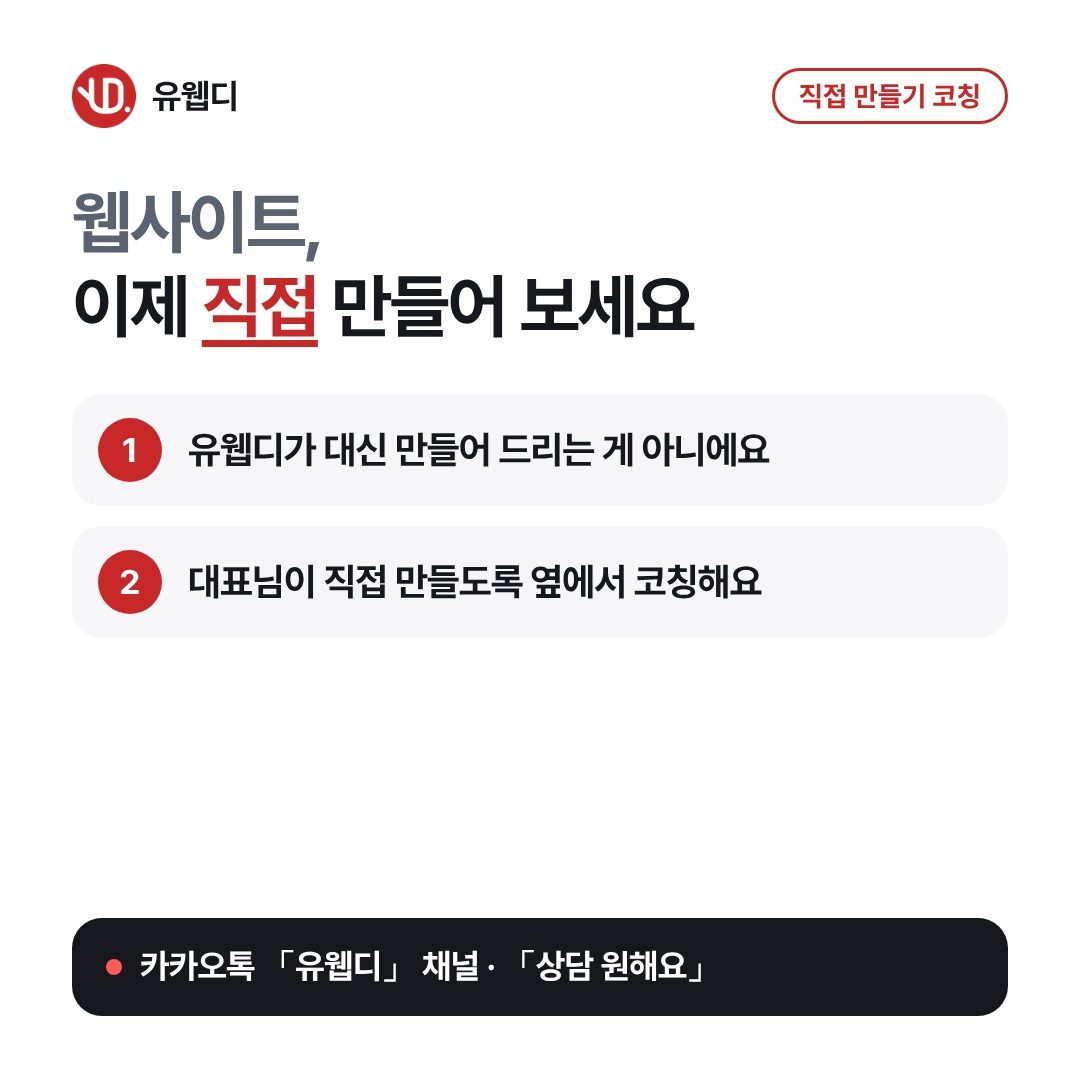
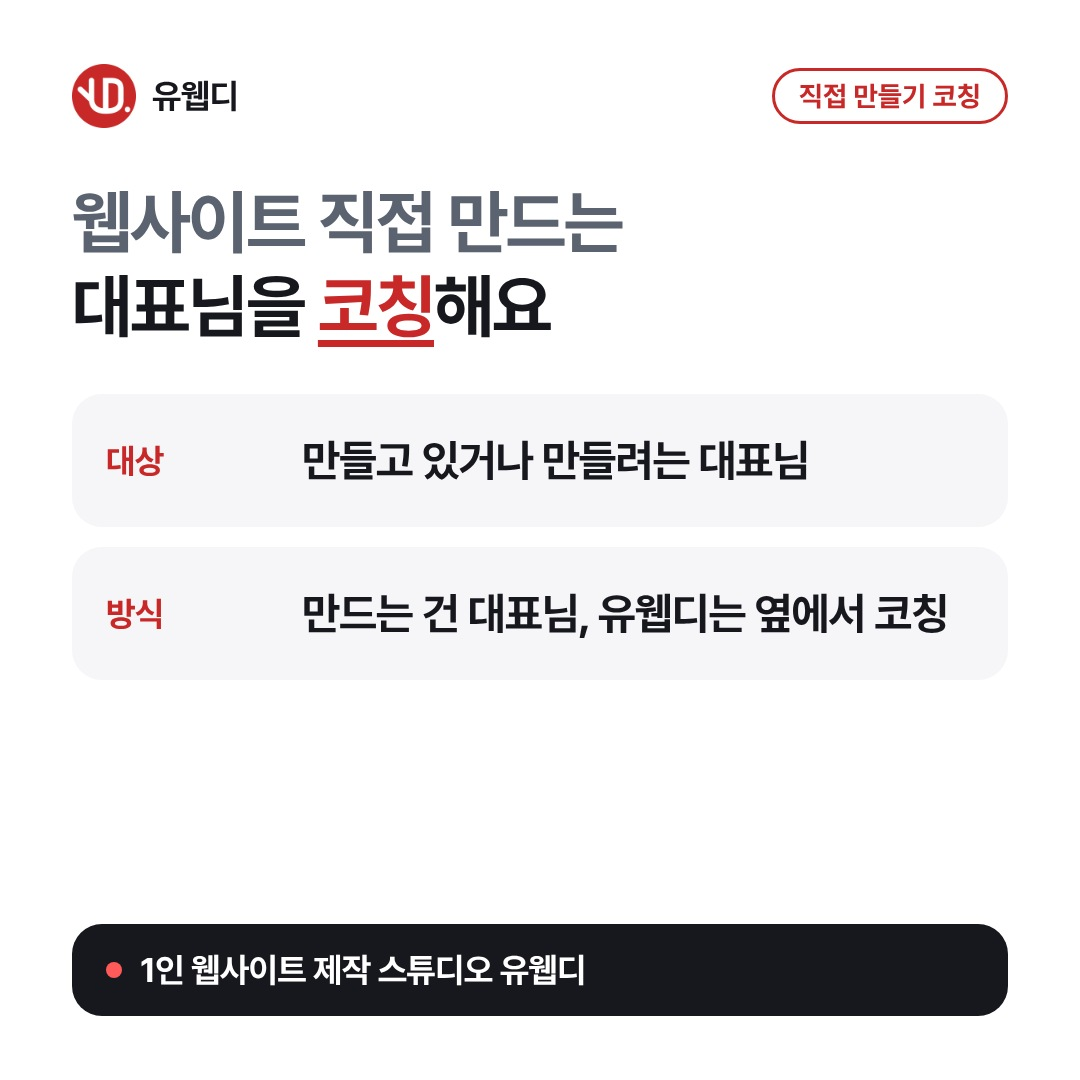
유웹디 당근마켓: 식스샵 프로 직접 만들기 코칭 캠페인(지역 광고·소식·카드·커리큘럼 초안)
- 당근마켓/식스샵프로_직접만들기_코칭/: 소식 2편, 지역 광고 후보 4개, 붙여넣기용 txt
- 이미지 카드 CARD-01~03(1080x1080)과 cards.json·render_cards.js(번호 줄 대신 체크 줄)
- 코칭_커리큘럼.md 초안: 확정·확인 필요·제안 구분, 대표님이 정해 주세요 표(올리기 전/나중에)
- 3안 작성→심사→합성→3중 검증 결과 반영(지역·무료 표기 짝, 사진 배정, 제안 표시 정리)
- README에 캠페인 폴더 구조와 코칭 검사 항목 추가

Claude-Session: https://claude.ai/code/session_01LjZC8sWc8qV5SK7AdNmqRB

diff --git a/유웹디_브랜딩/마케팅/당근마켓/식스샵프로_직접만들기_코칭/이미지_소스/render_cards.js b/유웹디_브랜딩/마케팅/당근마켓/식스샵프로_직접만들기_코칭/이미지_소스/render_cards.js
@@ -1,7 +1,7 @@
 /* cards.json → 당근마켓 이미지 카드(1080x1080 JPG)
  * 사용법: NODE_PATH=/opt/node22/lib/node_modules node render_cards.js
  * 필요: playwright(크롬). 글꼴은 견적서_생성기/fonts 의 Pretendard 부분 글꼴을 씁니다.
- * 카드 문구는 cards.json 에서만 고칩니다. 점 항목이 「라벨: 값」 모양이면 안내 줄, 아니면 번호 줄로 그립니다. */
+ * 카드 문구는 cards.json 에서만 고칩니다. 점 항목이 「라벨: 값」 모양이면 안내 줄, 아니면 체크 줄(순서 없음)로 그립니다. */
 const { chromium } = require('playwright');
 const fs = require('fs'), path = require('path');
 const HERE = __dirname;
@@ -23,7 +23,7 @@ function pointsHTML(c) {
   return c.points.map((p, i) => {
     const m = p.match(/^(.{1,6}?)\s*[:：]\s*(.+)$/);
     if (m) return `<div class="row fact"><b class="lab">${esc(m[1])}</b><span class="val">${esc(m[2])}</span></div>`;
-    return `<div class="row"><i class="no">${i + 1}</i><span class="val">${esc(p)}</span></div>`;
+    return `<div class="row"><i class="ck"><svg viewBox="0 0 24 24" width="34" height="34" fill="none" stroke="#fff" stroke-width="3.4" stroke-linecap="round" stroke-linejoin="round"><path d="M5 12.5l4.5 4.5L19 7.5"/></svg></i><span class="val">${esc(p)}</span></div>`;
   }).join('');
 }
 function html(c) {
@@ -44,16 +44,18 @@ h1 .dim{color:#5b6270}
 h1 em{font-style:normal;color:#c82828;text-decoration:underline;text-decoration-thickness:7px;text-underline-offset:9px}
 .pts{margin-top:46px;display:flex;flex-direction:column;gap:20px}
 .row{background:#f6f5f7;border-radius:30px;padding:24px 32px 24px 26px;display:flex;align-items:center;gap:26px;position:relative}
-.row .no{flex:none;width:64px;height:64px;border-radius:50%;background:#c82828;color:#fff;font-style:normal;font-weight:700;font-size:34px;display:flex;align-items:center;justify-content:center}
+.row .ck{flex:none;width:64px;height:64px;border-radius:50%;background:#c82828;display:flex;align-items:center;justify-content:center}
 .row .val{font-size:38px;font-weight:700;line-height:1.3;letter-spacing:-.025em}
 .row.fact{gap:24px;padding-left:34px}
-.row.fact .lab{flex:none;width:128px;color:#c82828;font-size:32px;font-weight:700;letter-spacing:-.02em}
+.row.fact .lab{flex:none;width:172px;color:#c82828;font-size:32px;font-weight:700;letter-spacing:-.02em}
+.pts.mid .row{padding-top:30px;padding-bottom:30px}.pts.mid .val{font-size:42px}.pts.big .row{padding-top:38px;padding-bottom:38px}.pts.big .val{font-size:44px}.pts.big .lab,.pts.mid .lab{font-size:34px}
+.foot.sm{font-size:30px}
 .foot{position:absolute;left:0;right:0;bottom:0;background:#16181d;color:#fff;border-radius:30px;padding:26px 34px;font-size:34px;font-weight:700;letter-spacing:-.02em;display:flex;align-items:center;gap:18px}
 .foot:before{content:"";flex:none;width:16px;height:16px;border-radius:50%;background:#ff5a5a}
 </style></head><body><div class="wrap">
 <div class="top"><img src="${LOGO}"><span class="nm">유웹디</span>${c.kicker ? `<span class="kick">${esc(c.kicker)}</span>` : ''}</div>
-<div class="main"><h1>${headlineHTML(c)}</h1><div class="pts">${pointsHTML(c)}</div></div>
-${c.footer ? `<div class="foot">${esc(c.footer)}</div>` : ''}
+<div class="main"><h1>${headlineHTML(c)}</h1><div class="pts${c.points.length <= 2 ? ' big' : c.points.length === 3 ? ' mid' : ''}">${pointsHTML(c)}</div></div>
+${c.footer ? `<div class="foot${c.footer.length > 22 ? ' sm' : ''}">${esc(c.footer)}</div>` : ''}
 </div></body></html>`;
 }
 

diff --git a/유웹디_브랜딩/마케팅/당근마켓/식스샵프로_직접만들기_코칭/코칭_커리큘럼.md b/유웹디_브랜딩/마케팅/당근마켓/식스샵프로_직접만들기_코칭/코칭_커리큘럼.md
@@ -1,0 +1,138 @@
+# 직접 만들기 코칭 — 커리큘럼 초안
+
+상태: **초안, 유웹디 대표님 확인 전.** 아직 어디에도 올리거나 안내하지 않았어요.
+서비스 이름 「직접 만들기 코칭」은 이 초안에서 임시로 붙인 이름이에요. 쓰실 이름을 정해 주세요.
+
+## 읽는 법
+
+- 이 문서에서 「대표님」은 두 분을 가리켜요. 소개와 주제 설명의 「대표님」은 코칭을 받는 분이고, 위의 상태 줄과 맨 아래 「대표님이 정해 주세요」의 「대표님」은 유웹디 대표님이에요.
+- **[확정]** 은 유웹디 대표님이 알려 주신 사실이에요. **[확인 필요]** 는 원문을 제가 풀어 읽었거나 공식 자료로 확인하지 못해서 확인이 필요한 내용이에요. **(제안)** 은 이 초안이 제안하는 내용이라 확정이 아니에요. 제안은 고르거나 고치거나 빼 주세요. 「이런 대표님께」와 「함께 해 보는 것」 아래 항목은 모두 제안이에요.
+- 코칭 시간·회차·기간에 대한 숫자는 정하지 않았어요. 요금(3만원, 기존 5만원)과 첫 1시간 무료만 썼고, 주제·순서 번호는 구분용이에요.
+- 이 초안은 코칭 결과나 성과를 미리 약속하는 말을 쓰지 않았고, 공식 자료로 확인하지 못한 식스샵 프로 기능은 단정해서 설명하지 않았어요.
+- 사실 기준: `마케팅/공통/말해도_되는_사실과_규칙.md` 의 「코칭 서비스 사실」.
+
+## 한눈에
+
+| 항목 | 내용 | 구분 |
+|---|---|---|
+| 대상 | 웹사이트를 직접 만들고 있거나 만들려는 대표님 | [확정] |
+| 방식 | 유웹디가 대신 만들어 드리는 서비스가 아니라, 대표님이 직접 만드시는 것을 옆에서 코칭해요 | [확정] |
+| 내용 | 식스샵 프로 AI 활용, MCP 연결, 블록 세팅 설정 (우선 이것부터) | [확정] |
+| 지역 | 유웹디는 경기 광주에서 활동해요. 코칭 지역은 성남·판교 전 지역, 경기 광주는 신현동·능평동만이에요 | [확정] 경기 광주 활동, 신현동·능평동 한정 / [확인 필요] 원문 「성남, 판교 전 지역 신현동, 능평동 한정」을 이렇게 읽었어요. 「성남·판교 전 지역」이 성남 전체인지 판교 일대인지 확인해 주세요 |
+| 장소 | 사무실 또는 카페 | [확정] |
+| 준비물 | 노트북 (필수) | [확정] |
+| 요금 | 시간당 3만원(할인가, 기존 5만원). 첫 1시간은 무료이고 이 시간에 진행 방향을 정해요. 이후에는 시간당 3만원이에요 | [확정] |
+
+## 이렇게 진행해요
+
+첫 1시간 무료(진행 방향 설정) → 이후 시간당 코칭
+
+| 순서 | 하는 일 | 구분 |
+|---|---|---|
+| 문의 | 카카오톡에서 「유웹디」 채널을 추가하고 「상담 원해요」를 보내요 | [확인 필요] 제작 상담에 쓰던 안내예요. 코칭 문의에도 그대로 쓸지, 구분할 말을 붙일지 정해 주세요 |
+| 1. 첫 1시간 (무료) | 이 시간에 코칭 진행 방향을 정해요 | [확정] |
+| | 이야기해 볼 것: 지금 어디까지 해 두셨는지, 어디서 막혔는지, 세 주제 중 무엇부터 할지. 세 주제를 모두 하지 않으셔도 돼요 | (제안) |
+| 2. 이후 코칭 (시간당 3만원) | 정한 주제를 대표님이 노트북으로 직접 하고, 유웹디는 옆에서 도와요 | (제안) |
+| | 요금은 시간당 3만원(기존 5만원)이에요 | [확정] |
+
+첫 1시간만 무료이고, 이후 코칭은 시간당 3만원이에요. 한 번에 얼마나 할지, 몇 번 할지, 모두 얼마나 걸릴지는 정하지 않았어요. 맨 아래 「대표님이 정해 주세요」에서 정해 주세요.
+
+## 주제 1. 식스샵 프로 AI 활용
+
+**이런 대표님께 (제안)**
+
+- 식스샵 프로로 웹사이트를 직접 만들고 있거나 만들려는 대표님
+- 만드는 과정에 AI를 쓰고 싶은데 어디서부터 정해야 할지 막막한 대표님
+- AI에게 무엇을 어떻게 물어야 할지 모르겠는 대표님
+
+**함께 해 보는 것 (제안)**
+
+- 대표님 사이트에서 AI에게 부탁해 보고 싶은 일이 무엇인지 같이 정리해 봐요
+- 정리한 일을 대표님이 직접 AI에 부탁해 보고, 결과를 같이 살펴봐요
+- 마음에 들지 않는 부분은 부탁하는 말을 바꿔 다시 해 봐요
+- AI가 내놓은 답을 그대로 쓰지 않고, 대표님이 확인하는 순서를 같이 정해 봐요
+- 이번에 해 본 순서를 대표님이 직접 메모해 둬요
+
+**준비해 오실 것** (노트북 외에는 제안)
+
+- 노트북 (필수) [확정]
+- 만들고 있거나 만들려는 사이트의 주제나 이름
+- 식스샵 프로에 접속할 수 있는 계정
+- 써 보고 싶은 AI 도구가 있다면 그 이름
+
+[확인 필요] 「식스샵 프로 AI 활용」이 식스샵 프로 안의 기능을 뜻하는지, 별도의 AI 도구를 함께 쓰는 것인지는 공식 자료로 확인하지 못했어요. 그래서 위 항목은 AI를 쓰는 일반적인 방식으로만 적었고, 식스샵 프로 기능의 세부는 쓰지 않았어요.
+
+## 주제 2. MCP 연결
+
+[확인 필요] 일반 용어 풀이: MCP는 AI 도구를 다른 도구·서비스와 이어 주는 연결 방식을 가리키는 말이에요. 식스샵 프로와 어떻게 이어지는지는 공식 자료로 확인하지 못해 쓰지 않았어요. 소식·광고·카드에는 풀이 없이 「MCP 연결」이라고만 썼어요.
+
+**이런 대표님께 (제안)**
+
+- 「MCP 연결」이라는 말은 들었는데 내 작업에서 무엇을 연결하는 일인지 막막한 대표님
+- 연결을 해 보려다 중간에 막힌 대표님
+
+**함께 해 보는 것 (제안)**
+
+- 대표님이 어떤 도구나 서비스를 AI와 연결하고 싶은지 먼저 이야기해 봐요
+- 연결에 필요한 것과 순서를 같이 확인하고, 대표님이 직접 따라 해 봐요
+- 막히는 곳이 어디인지 짚어 보고 다시 해 봐요
+- 연결한 뒤 대표님이 직접 써 보며 잘 이어졌는지 살펴봐요
+
+**준비해 오실 것** (노트북 외에는 제안)
+
+- 노트북 (필수) [확정]
+- 연결해 보고 싶은 AI 도구와 서비스의 이름
+- 각 서비스에 로그인할 수 있는 계정. 로그인은 대표님이 직접 해요 (로그인 정보 취급은 맨 아래 표에서 정해 주세요)
+- 막혔을 때 나온 화면이나 메시지가 있으면 캡처해 오세요
+
+## 주제 3. 블록 세팅 설정
+
+[확인 필요] 「블록 세팅 설정」은 유웹디 대표님이 쓰신 말 그대로예요. 식스샵 프로 화면에서 어떤 항목을 가리키는지는 공식 자료로 확인하지 못해서 풀이를 쓰지 않았어요.
+
+**이런 대표님께 (제안)**
+
+- 식스샵 프로로 사이트를 만들다가 블록 세팅 설정에서 막히는 대표님
+- 어떤 설정부터 건드려야 할지 순서를 정하지 못한 대표님
+- 아직 사이트를 만들기 전이어서 어떤 설정이 필요한지 알고 싶은 대표님
+
+**함께 해 보는 것 (제안)**
+
+- 대표님이 만들고 있는 페이지를 열어 두고, 막히는 설정이 무엇인지 하나씩 짚어 봐요
+- 설정 하나를 대표님이 직접 바꿔 보고, 바뀐 결과를 같이 살펴봐요
+- 바꿀 설정의 순서를 같이 정해 봐요
+- 이번에 해 본 설정 순서를 대표님이 직접 메모해 둬요
+
+**준비해 오실 것** (노트북 외에는 제안)
+
+- 노트북 (필수) [확정]
+- 만들고 있는 사이트가 있다면 접속할 수 있는 상태, 아직 없다면 만들고 싶은 사이트에 대한 메모
+- 막히는 부분을 적은 메모나 화면 캡처
+
+## 하지 않는 일
+
+- 이 코칭에서는 유웹디가 대표님의 웹사이트를 대신 만들어 드리지 않아요. 대표님이 직접 만드시는 것을 옆에서 코칭하는 서비스예요. [확정]
+- 대표님 계정에 대신 로그인해서 작업하지 않아요. 로그인은 대표님이 직접 해요. (제안)
+- 대신 만들어 달라는 문의는 제작 상담으로 나누고, 코칭과 섞어 안내하지 않아요. 구분할 말은 아래 표에서 정해 주세요. (제안)
+
+## 대표님이 정해 주세요
+
+이 부분의 「대표님」은 유웹디 대표님이에요. 아직 정해지지 않았거나 확인하지 못한 항목이라, 정해 주시기 전까지 글과 광고에는 쓰지 않았어요. 「올리기 전」 표시는 광고를 올리기 전에 정해 두면 좋은 항목이에요.
+
+| 항목 | 지금 상태 | 정해 주실 것 | 정할 때 |
+|---|---|---|---|
+| 서비스 이름 | 임시로 「직접 만들기 코칭」이라고 썼어요 | 쓰실 이름 | 올리기 전 |
+| 지역 해석 | 원문 「성남, 판교 전 지역 신현동, 능평동 한정」을 「성남·판교 전 지역, 경기 광주는 신현동·능평동만」으로 읽었어요 | 맞는지. 판교가 성남시에 속한 동네라서 「성남·판교 전 지역」이 성남 전체인지 판교 일대인지도 정해 주세요 | 올리기 전 |
+| 회차·시간 | 정하지 않았어요 | 한 번에 얼마나 할지, 몇 번 할지, 시간당 요금을 어떤 단위로 계산할지 | 올리기 전 |
+| 할인 기간 | 종료일이 없어요. 글에는 기간을 쓰지 않았어요 | 할인을 언제까지 할지, 기간을 두지 않는다면 어떻게 표시할지 | 올리기 전 |
+| 기존 5만원 표시 근거 | 알려 주신 값이에요 | 종전 가격으로 보일 수 있으니 실제로 받던 요금인지 근거, 그리고 할인 조건 표기 | 올리기 전 |
+| 결제 방법 | 정하지 않았어요 | 결제 시점과 방법 (첫 1시간 뒤에 이어서 할 때 포함) | 올리기 전 |
+| 취소·일정 변경 규정 | 정하지 않았어요 | 일정을 바꾸거나 취소할 때의 안내 | 올리기 전 |
+| 첫 1시간 무료 조건 | 정하지 않았어요 | 한 분당 한 번인지, 이어서 코칭하지 않아도 무료인지, 지역 밖 문의는 어떻게 안내할지 | 올리기 전 |
+| 코칭 문의를 구분할 말 | 「상담 원해요」는 제작 상담에도 쓰는 말이에요. 기존 상담 시간 안내는 코칭 시간으로 읽힐 수 있어 넣지 않았어요 | 코칭 문의일 때 덧붙일 말 | 올리기 전 |
+| 카페·사무실 방문 규칙 | 정하지 않았어요. 카페 이름이나 주소는 쓰지 않았어요 | 장소를 누가 정하는지, 사무실은 어느 쪽 사무실인지, 카페 이용 비용은 누가 내는지, 카페에서 계정에 로그인할 때 주의할 점 | 나중에 |
+| 사무실·카페 밖 방식 | 안내하지 않았어요 | 원격 같은 다른 방식을 할지 말지 | 나중에 |
+| 인원 구성 | 알려 주신 바가 없어서 글에 쓰지 않았어요 | 한 번에 한 분만 하는지, 여러 분이 함께 하는지, 시간당 요금이 몇 분 기준인지 | 나중에 |
+| 대상 범위 | 한눈에 표는 「직접 만들고 있거나 만들려는 대표님」 그대로이고, 주제 1·3의 「이런 대표님께」는 식스샵 프로 사용자로 좁혀 제안했어요 | 식스샵 프로가 아닌 다른 플랫폼으로 만드는 대표님도 대상인지 | 나중에 |
+| 로그인 정보 취급 | 대표님이 직접 입력하는 방식을 제안했어요 | 코칭 중 계정 정보를 어떻게 다룰지 | 나중에 |
+| 외부 비용 | 정하지 않았어요 | 식스샵 프로나 AI 도구를 쓰는 데 드는 비용이 있다면 따로 내는 것이라고 안내할지 | 나중에 |
+| 식스샵 프로 기능 세부 | 공식 자료로 확인하지 못했어요. 세 주제는 쓰신 말 그대로만 적었어요 | 세 주제가 가리키는 범위, 식스샵 프로 안의 기능인지 따로 쓰는 도구인지, MCP 풀이 문구 확인 | 나중에 |

diff --git a/유웹디_브랜딩/마케팅/당근마켓/식스샵프로_직접만들기_코칭/당근마켓_소식_광고문구.md b/유웹디_브랜딩/마케팅/당근마켓/식스샵프로_직접만들기_코칭/당근마켓_소식_광고문구.md
@@ -1,0 +1,95 @@
+# 당근마켓 비즈프로필 소식·지역 광고 문구 — 직접 만들기 코칭 (식스샵 프로)
+
+- 올리는 곳: 당근마켓 **비즈프로필 「소식」**(사진을 붙이는 글)과 **지역 광고**
+- 대상: 웹사이트를 직접 만들고 있거나 만들려는 대표님. 서비스 이름 「직접 만들기 코칭」은 **임시로 붙인 이름**입니다(쓰실 이름을 정해 주세요).
+- 말투: 이웃에게 건네는 짧은 해요체, 「대표님」 호칭, 이모지 없음
+- 상태: **글만 작성했고 올리지 않았습니다.** 올리기 전에 맨 아래 「올리기 전에 확인할 것」을 봐 주세요.
+- 사실 기준: `마케팅/공통/말해도_되는_사실과_규칙.md` 의 「코칭 서비스 사실」 C1~C6. 소식 본문에는 URL을 쓰지 않았습니다.
+- 커리큘럼 초안은 `코칭_커리큘럼.md`, 사진 문구는 `이미지_소스/cards.json` 입니다(`node render_cards.js` 로 `이미지/` 를 다시 그립니다).
+
+## 소식 1 — 정보형
+
+사진(순서대로): CARD-01, CARD-02, CARD-03
+
+```
+웹사이트를 직접 만들고 있거나 만들려는 대표님, 옆에서 코칭해 드려요.
+
+유웹디는 1인 웹사이트 제작 스튜디오예요. 이 「직접 만들기 코칭」은 유웹디가 대신 만들어 드리는 게 아니라, 대표님이 직접 만드시는 것을 옆에서 돕는 서비스예요.
+
+식스샵 프로 AI 활용, MCP 연결, 블록 세팅 설정부터 시작해요.
+
+대표님께 해당되는지 먼저 봐 주세요.
+- 지역: 성남·판교 전 지역이에요. 경기 광주는 신현동·능평동만 해당돼요.
+- 장소: 사무실 또는 카페에서 해요.
+- 준비물: 노트북은 필수예요.
+- 요금: 첫 1시간은 무료이고, 이 시간에 진행 방향을 정해요. 이후에는 시간당 3만원(기존 5만원)이에요.
+
+카카오톡에서 「유웹디」 채널을 추가하고 「상담 원해요」를 보내 주세요.
+```
+
+사진을 고른 이유: CARD-01(소개)은 「누구를 어떻게 코칭하는지」, CARD-02는 코칭 내용 세 가지, CARD-03은 지역·장소·준비물·요금입니다. 본문 순서(누구에게 → 무엇을 → 해당되는지)와 같아서 사진만 넘겨 봐도 이야기가 이어집니다. CARD-03에는 지역 한정(「경기 광주 신현동·능평동」)과 요금(「첫 1시간 무료」「이후 시간당 3만원(기존 5만원)」)이 한 장에 같이 있어 무료가 전체 무료로 읽히지 않습니다.
+
+## 소식 2 — 질문형
+
+사진(순서대로): CARD-02, CARD-03
+
+```
+식스샵 프로로 웹사이트를 직접 만들려는데, AI 활용·MCP 연결·블록 세팅 설정 중 어디서부터 할지 고민되시나요?
+
+유웹디는 1인 웹사이트 제작 스튜디오예요. 대신 만들어 드리는 게 아니라, 대표님이 직접 만드시는 것을 옆에서 코칭해 드려요.
+
+대표님께 해당되는지 볼까요?
+- 성남·판교 전 지역이에요. 경기 광주는 신현동·능평동만 해당돼요.
+- 사무실 또는 카페에서 하고, 노트북은 필수예요.
+- 첫 1시간은 무료이고, 이 시간에 진행 방향을 정해요. 이후에는 시간당 3만원(기존 5만원)이에요.
+
+카카오톡에서 「유웹디」 채널을 추가하고 「상담 원해요」를 보내 주세요.
+```
+
+사진을 고른 이유: 질문이 「어디서부터 할지」이므로 CARD-02(코칭 내용 세 가지)를 첫 사진으로 하고, 해당 여부를 한눈에 보게 CARD-03(지역·요금)을 뒤에 붙였습니다. 정보형 소식과 CARD-02·03이 겹치므로 두 소식은 같은 날 올리지 말고 간격을 두세요.
+
+## 지역 광고 문구 후보
+
+지역 광고에 쓰는 짧은 문구입니다(제목 20자 이내·본문 60자 이내는 이쪽에서 정한 기준이라 앱의 실제 한도를 확인하세요). 사진은 CARD-03 또는 CARD-01을 쓰세요.
+
+### 후보 1 — 대상
+
+제목: 직접 만드는 대표님, 옆에서 코칭해요
+본문: 식스샵 프로 AI 활용, MCP 연결, 블록 세팅 설정을 같이 해요. 대신 만들어 드리지는 않아요.
+
+### 후보 2 — 가격·조건
+
+제목: 코칭 첫 1시간 무료, 이후 3만원
+본문: 웹사이트 직접 만들기 코칭이에요. 첫 1시간은 진행 방향을 정하고, 이후 시간당 3만원(기존 5만원)이에요.
+
+### 후보 3 — 지역
+
+제목: 성남·판교, 경기 광주 신현동·능평동
+본문: 웹사이트 직접 만들기 코칭은 성남·판교 전 지역, 경기 광주는 신현동·능평동만 해요. 노트북 필수예요.
+
+### 후보 4 — 진행 방식
+
+제목: 사무실이나 카페에서 코칭해요
+본문: 웹사이트는 노트북을 펴고 대표님이 직접 만들어요. 유웹디는 옆에서 코칭해요.
+
+## 올리기 전에 확인할 것
+
+**올리기 전에 꼭 정할 것**
+
+1. **서비스 이름**: 「직접 만들기 코칭」은 임시 이름입니다. 쓰실 이름을 정하면 소식·광고·카드·커리큘럼을 같이 고칩니다.
+2. **지역 해석**: 알려 주신 「지역 한정 성남, 판교 전 지역 신현동, 능평동 한정」을 「성남·판교 전 지역, 경기 광주는 신현동·능평동만」으로 읽었습니다. 맞는지, 「성남·판교 전 지역」이 성남 전체인지 판교 일대인지 정해 주세요. 해석이 다르면 소식·광고·카드·커리큘럼의 지역 문장을 모두 고쳐야 합니다.
+3. **할인 표시**: 「기존 5만원」은 알려 주신 값입니다. 종전 가격으로 읽히므로 실제로 받으시던 요금인지 근거를 갖추고, 할인 기간·조건을 정해 주세요. 종료일이 없어서 「지금」「이번 달」 같은 기간 표현은 쓰지 않았습니다. 일반적인 할인 표시 안내: [thecheck.co.kr](https://thecheck.co.kr/discount-advertising-reference-price-check/) (당근의 표시 기준은 확인하지 못했습니다).
+4. **코칭 문의를 구분할 말**: 「상담 원해요」는 제작 상담에도 쓰는 말입니다. 코칭 문의일 때 덧붙일 말(예: 「코칭」)을 정하면 글의 안내 문장에 넣을 수 있습니다. 상담 시간(매일 10:00~22:00)은 코칭 시간처럼 읽혀 넣지 않았습니다.
+5. **결제 방법과 일정 변경·취소 안내**: 문의가 오면 바로 답해야 하므로 최소한 이 둘은 정해 두세요. 나머지는 `코칭_커리큘럼.md` 맨 아래 표에 있습니다.
+6. **당근 앱의 한도와 심사**: 소식 글자수, 사진 개수·규격, 광고 심사 기준은 확인하지 못했습니다. 이 문서의 500자·20자·60자는 이쪽에서 정한 기준입니다. 소식이 더 짧아야 하면 정보형은 둘째 문단의 「유웹디는 1인 웹사이트 제작 스튜디오예요.」부터, 질문형은 둘째 문단부터 줄이세요. 지역·노트북 문장과 「첫 1시간은 무료이고…이후에는 시간당 3만원」은 지우지 마세요.
+7. **광고 노출 동네**: 광고 노출을 동네 단위로 고르는지 반경으로 정하는지 확인하지 못했습니다. 반경이 경기 광주의 다른 동까지 닿으면 「경기 광주 전체」로 읽혀 글의 지역 한정과 어긋납니다. 노출 동네를 성남·판교 전 지역과 경기 광주 신현동·능평동에 맞출 수 있는지, 비즈프로필 위치도 함께 확인하세요.
+8. **「무료」 표현**: 광고 심사에서 「무료」가 걸리면 후보 2를 빼고 1·3·4를 쓰세요(1·3·4에는 「무료」가 없습니다). 소식과 카드의 「이후 시간당 3만원」은 지우지 마세요. 전체 무료로 읽힙니다.
+9. **광고 후보 3**: 제목 「성남·판교, 경기 광주 신현동·능평동」에는 「만」이 없어서, 본문(「경기 광주는 신현동·능평동만 해요」)과 함께 보이는지 확인하세요. 제목만 보이는 화면이면 후보 3을 쓰지 마세요.
+10. **카카오톡 안내**: 당근에서 외부 채널 안내가 허용되는지, 채널 검색 이름이 정확히 「유웹디」인지 확인하세요. 막히면 비즈프로필의 문의 수단 안내로 바꾸세요.
+11. **사진 미리보기**: 올린 뒤 미리보기에서 CARD-03의 머리글(「코칭 안내 · 지역 한정」)과 글자가 잘리지 않는지 보세요.
+12. **제작 서비스 소식과의 간격**: 같은 비즈프로필에 「동네 사장님 홈페이지 문구 수정」(제작 후 운영 교육) 소식이 있다면 두 서비스가 서로 다른 서비스로 읽히는지 미리보기로 보고 올리는 간격을 정해 주세요. 코칭 글에는 제작 서비스의 약속(운영 매뉴얼, 무상 문구 교체 등)을 넣지 않았습니다.
+
+**나중에 정해도 되는 것**
+
+- 식스샵 프로 기능 세부: 「식스샵 프로 AI 활용」「MCP 연결」「블록 세팅 설정」은 쓰신 말 그대로만 적었습니다. 세 항목이 가리키는 범위는 공식 자료로 확인하지 못했습니다.
+- 한 번에 한 분만 코칭하는지, 식스샵 프로가 아닌 플랫폼으로 만드는 대표님도 대상인지, 식스샵 프로·AI 도구 이용료 안내, 코칭 가능한 요일·시간.
